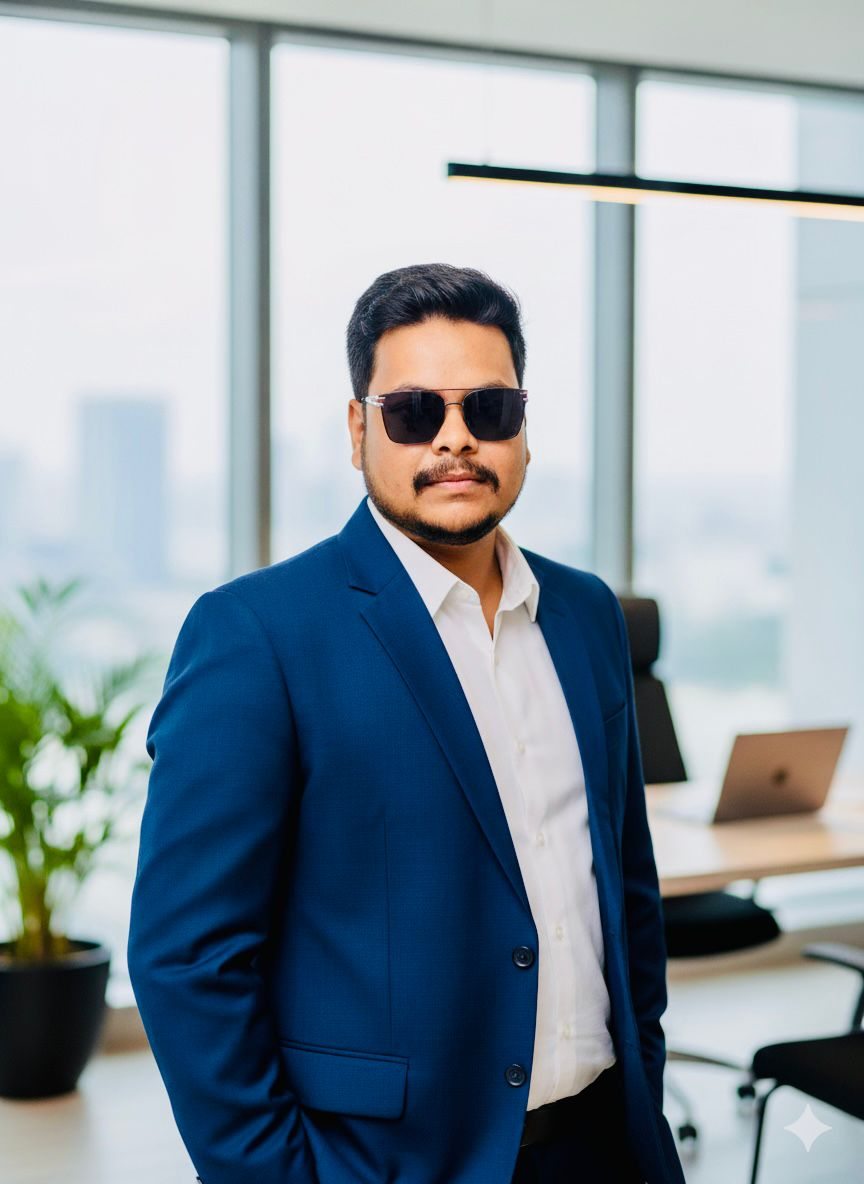
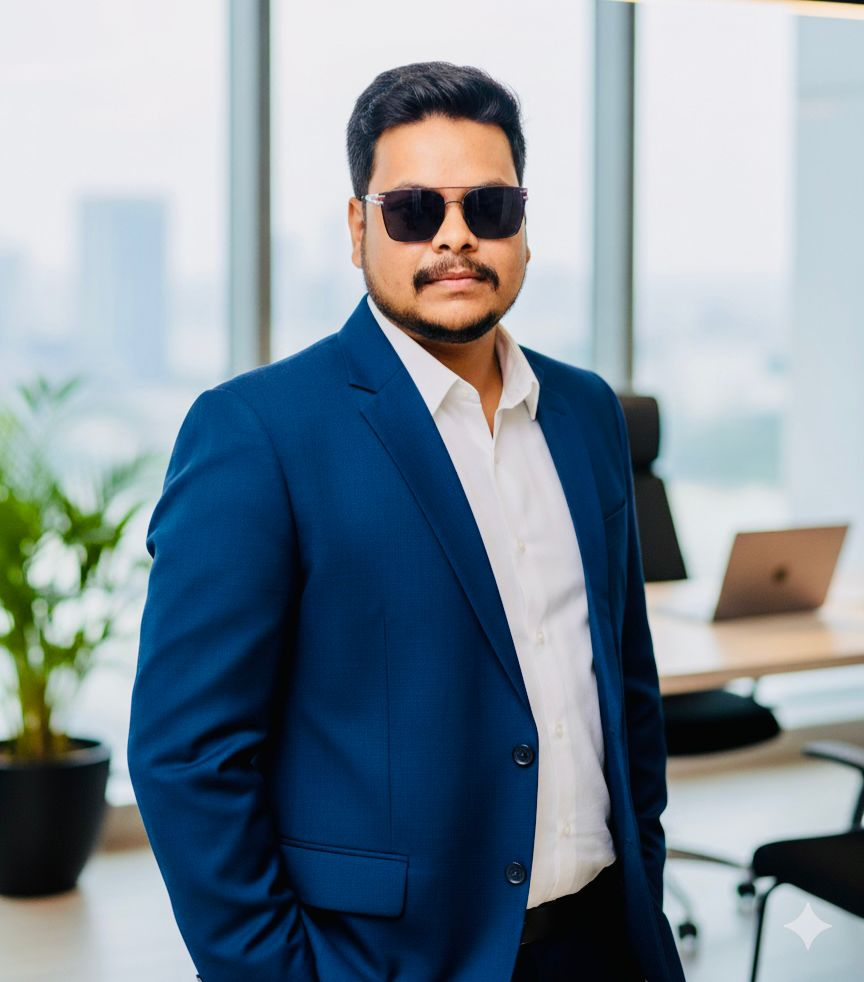
some

diff --git a/index.html b/index.html
@@ -303,12 +303,6 @@
             <section class="featured_box">
                 <div class="featured_text">
 
-                    <!-- <div class="featured_text_card"><span>Suraj Yadav
-                        
-                        Founder & CEO
-
-                        </span></div>
-                        <br> -->
                     <div class="featured_text_info">
                         <p>Suraj Yadav <br>Founder & CEO<br>
                             A Mechanical Engineer with 6+ years of experience in CBG Plant, Green Hydrogen Plant,
@@ -322,7 +316,6 @@
                                     class="uil uil-instagram"></i></a></div>
                         <div class="icon"><a href="https://www.linkedin.com/company/sy-green-energy/"><i
                                     class="uil uil-linkedin-alt"></i></a></div>
-                        <!-- <div class="icon"><a href="https://github.com/Piiush04"><i class="uil uil-github-alt"></i></a></div> -->
                     </div>
                 </div>
                 <div class="featured_image">

diff --git a/css/style.css b/css/style.css
@@ -180,6 +180,7 @@ nav {
     display: flex;
     height: 100vh;
     min-height: 700px;
+     
 }
 
 
